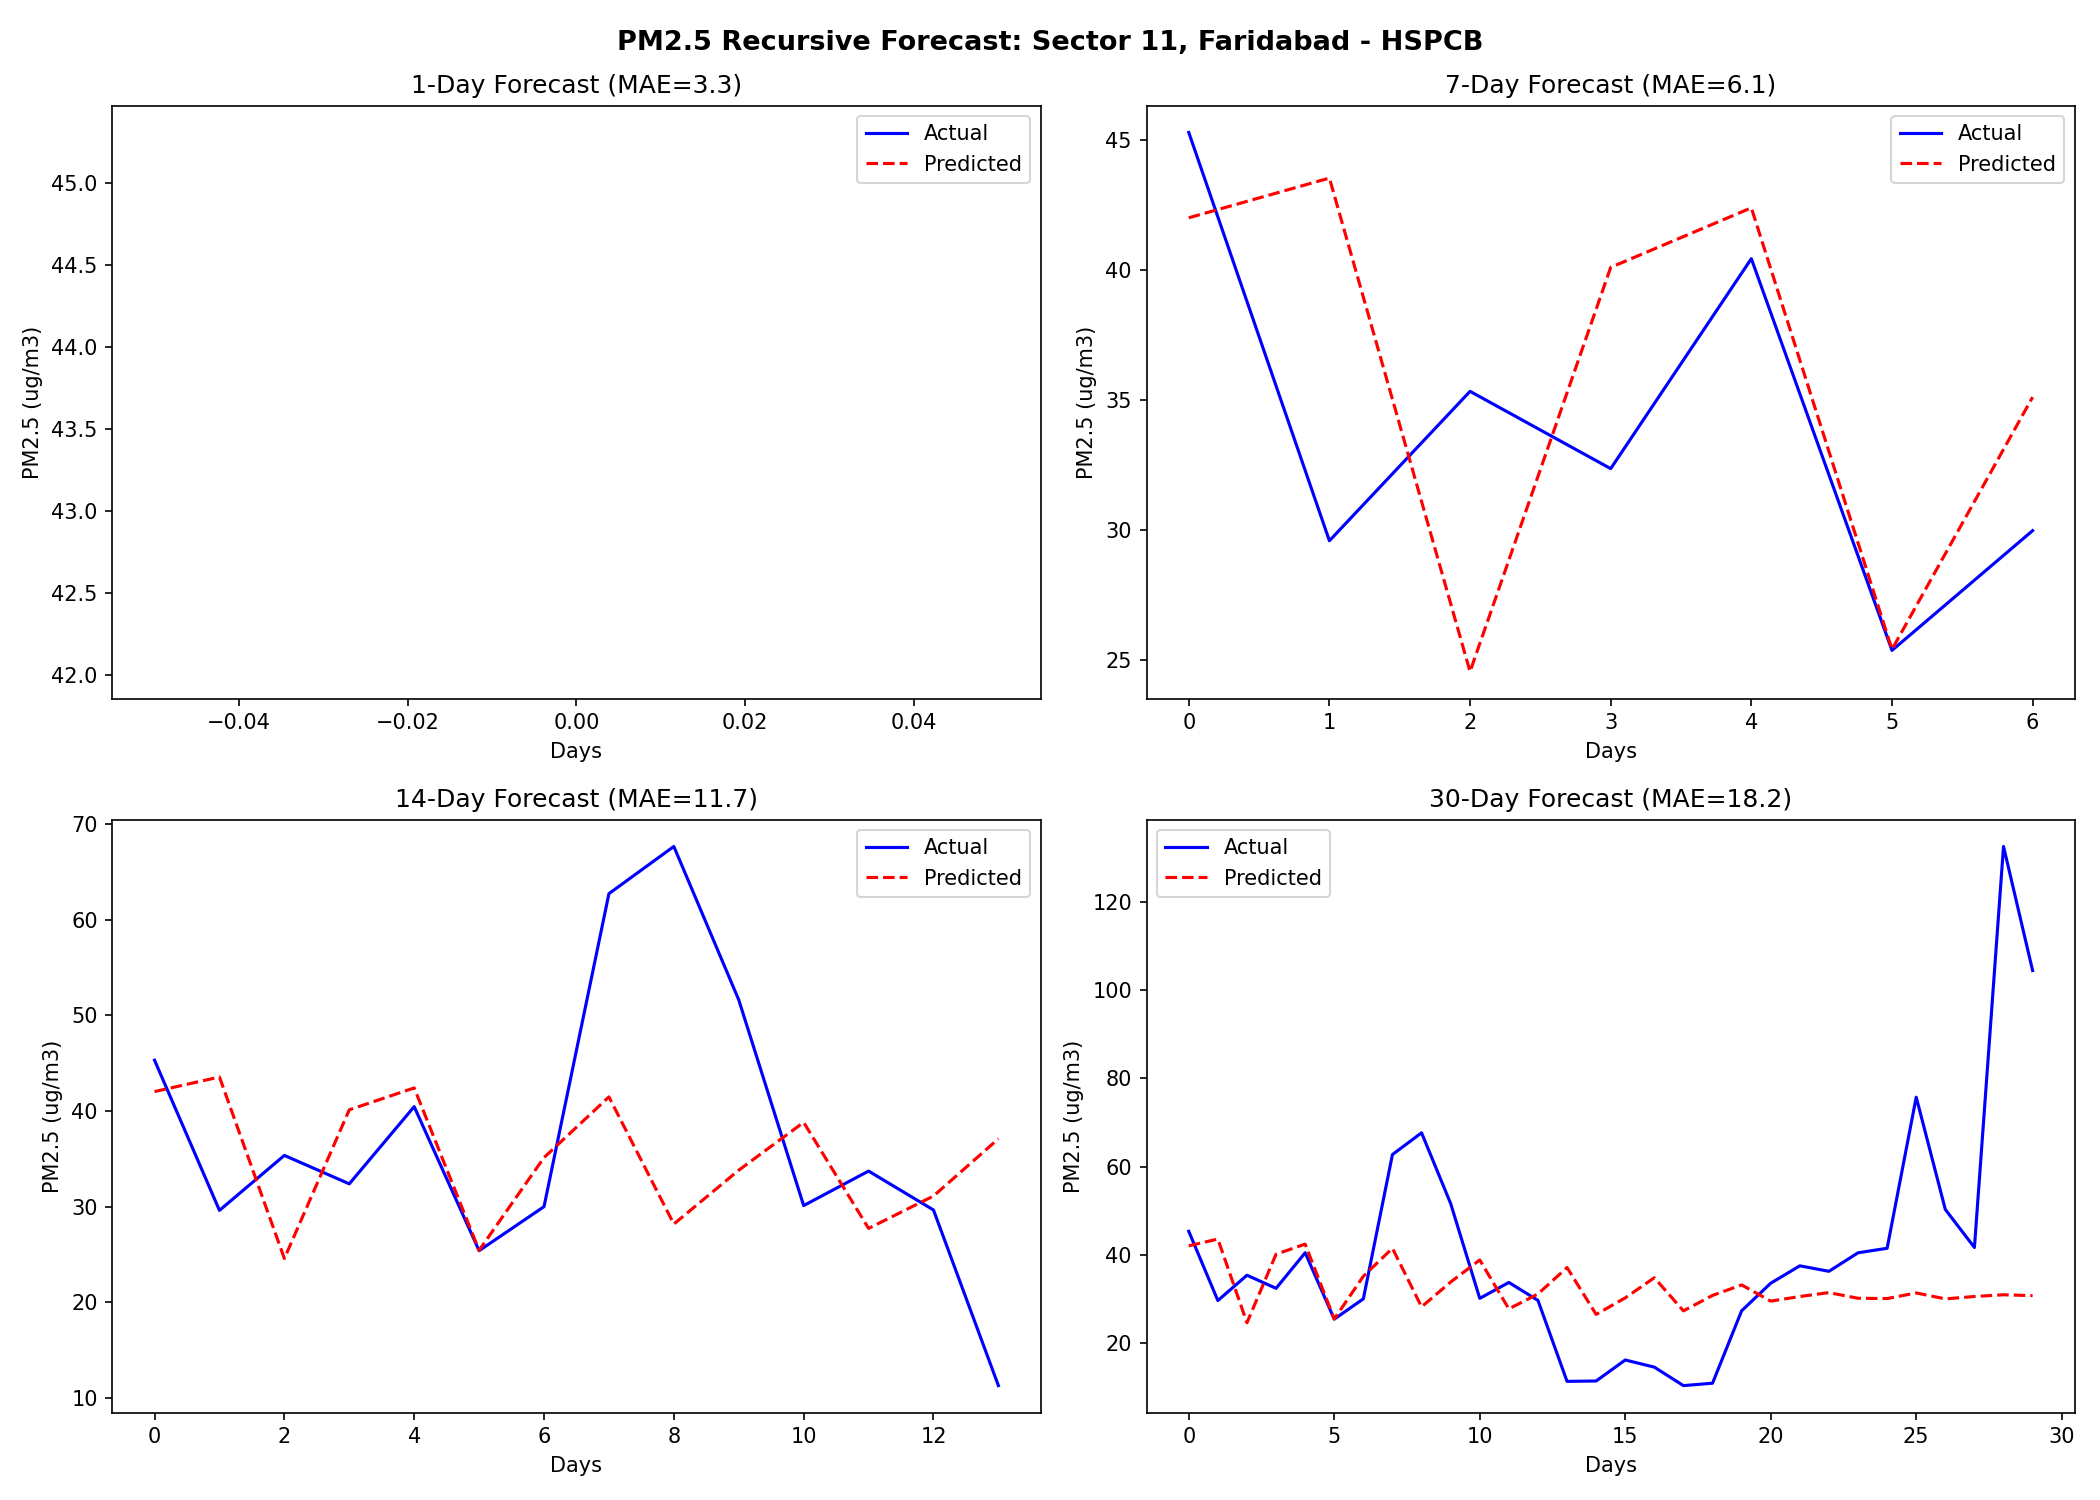
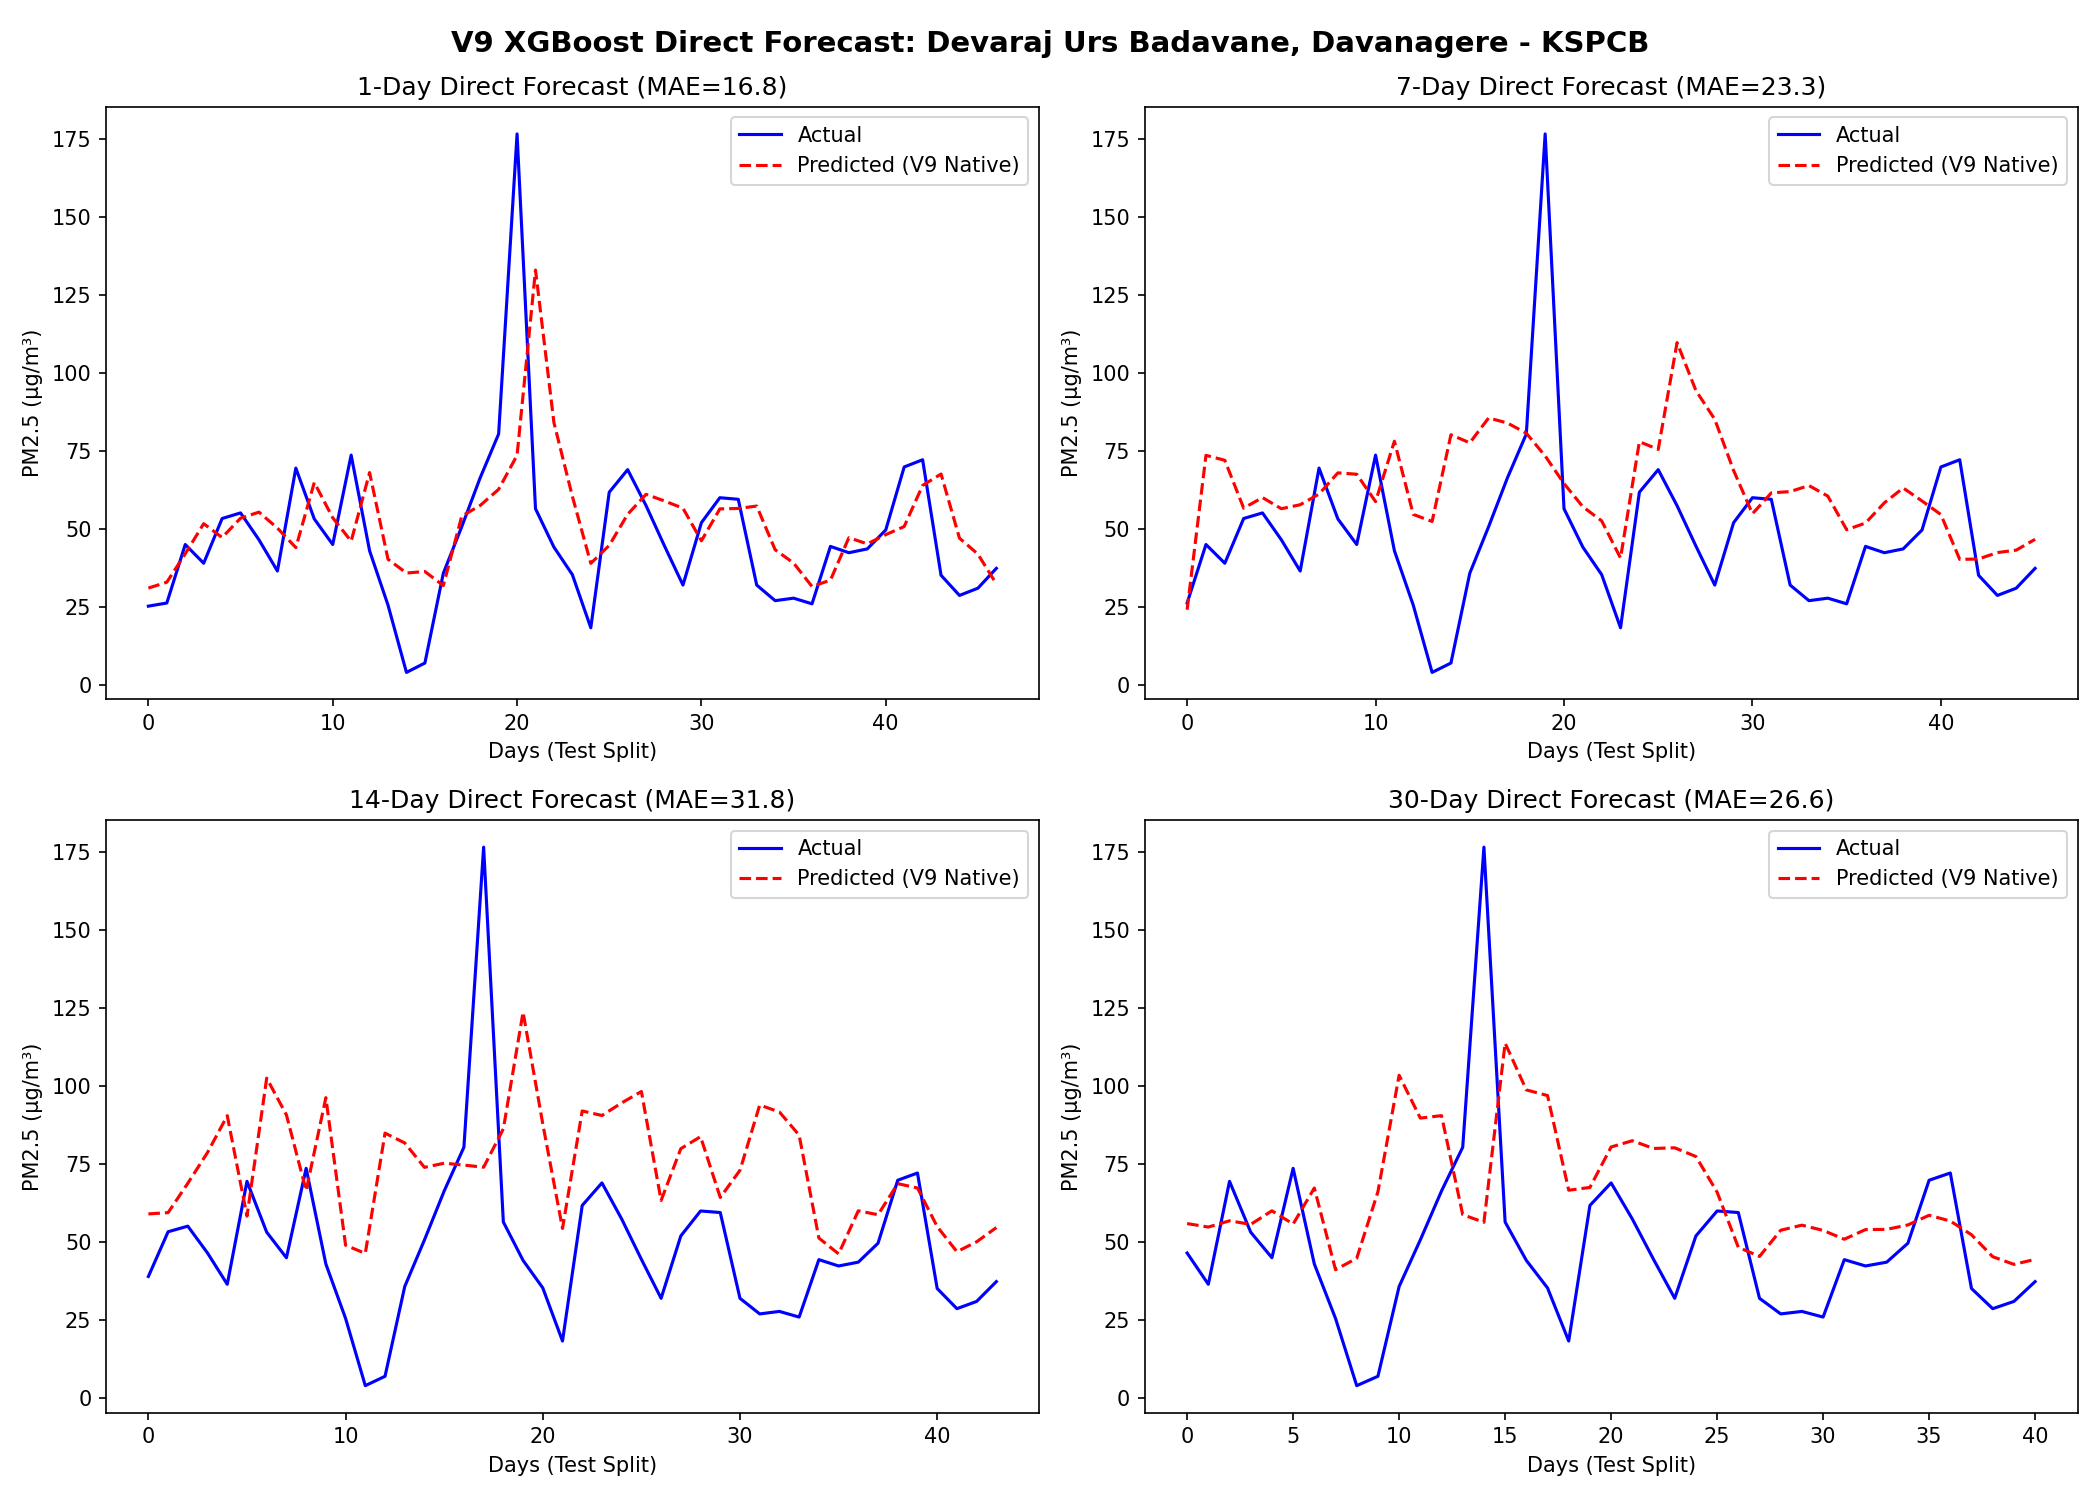
docs(plots): update forecast_horizons.png for v9 native xgboost engine

diff --git a/scripts/plot_v9_forecasts.py b/scripts/plot_v9_forecasts.py
@@ -1,0 +1,110 @@
+import os
+import sys
+import json
+import psycopg2
+import pandas as pd
+import matplotlib
+matplotlib.use('Agg')
+import matplotlib.pyplot as plt
+import xgboost as xgb
+from sklearn.metrics import mean_absolute_error
+
+sys.path.insert(0, os.path.join(os.path.dirname(__file__), ".."))
+from src.config import DB_CONFIG
+from train_v9_xgboost import load_base_data, build_v9_features, temporal_split
+
+MODEL_DIR = os.path.join(os.path.dirname(__file__), "..", "models", "v9")
+HORIZONS = [1, 7, 14, 30]
+
+def plot_best_station():
+    print("Connecting to DB...")
+    conn = psycopg2.connect(**DB_CONFIG)
+    
+    # We will plot for India (IN) since it has high variance and Faridabad is in IN
+    df_in = load_base_data(conn, "IN")
+    
+    # Get station names
+    sql = "SELECT id as station_id, name as station_name FROM stations WHERE country_code = 'IN'"
+    stations_df = pd.read_sql(sql, conn)
+    conn.close()
+    
+    df_in = df_in.merge(stations_df, on="station_id", how="left")
+    
+    # Find the best station
+    counts = df_in.groupby(["station_id", "station_name"]).size().reset_index(name="days")
+    best_station = counts.sort_values("days", ascending=False).iloc[0]
+    best_sid = best_station["station_id"]
+    best_name = best_station["station_name"]
+    print(f"Selected station: {best_name} ({best_sid}) with {best_station['days']} days")
+    
+    fig, axes = plt.subplots(2, 2, figsize=(14, 10))
+    
+    for i, h in enumerate(HORIZONS):
+        print(f"Processing horizon {h}...")
+        df_h, features = build_v9_features(df_in, h)
+        
+        # Filter to best station
+        df_station = df_h[df_h["station_id"] == best_sid].copy()
+        
+        if len(df_station) < 50:
+            print(f"Not enough data for horizon {h}")
+            continue
+            
+        train, test = temporal_split(df_station, "value", test_ratio=0.20)
+        if test.empty:
+            continue
+            
+        # Load V9 XGBoost model and medians
+        model_path = os.path.join(MODEL_DIR, f"IN_pm25_h{h}_xgb.json")
+        meta_path = os.path.join(MODEL_DIR, f"IN_pm25_h{h}_meta.json")
+        
+        if not os.path.exists(model_path):
+            print(f"Model not found: {model_path}")
+            continue
+            
+        with open(meta_path, "r") as f:
+            meta = json.load(f)
+        medians = meta["feature_medians"]
+        
+        X_test = test[features].copy()
+        y_test = test["value"].values
+        
+        for col in features:
+            X_test[col] = X_test[col].fillna(medians.get(col, 0.0))
+            
+        X_test = X_test.replace([float("inf"), float("-inf")], 0)
+        
+        model = xgb.XGBRegressor()
+        model.load_model(model_path)
+        
+        y_pred = model.predict(X_test)
+        y_pred = [max(0, p) for p in y_pred] # PM2.5 can't be negative
+        
+        mae = mean_absolute_error(y_test, y_pred)
+        
+        ax = axes[i // 2, i % 2]
+        
+        # We plot the last 60 days of the test set for better visibility
+        plot_len = min(60, len(y_test))
+        y_test_plot = y_test[-plot_len:]
+        y_pred_plot = y_pred[-plot_len:]
+        
+        ax.plot(range(len(y_test_plot)), y_test_plot, 'b-', label='Actual', linewidth=1.5)
+        ax.plot(range(len(y_pred_plot)), y_pred_plot, 'r--', label='Predicted (V9 Native)', linewidth=1.5)
+        
+        ax.set_title(f'{h}-Day Direct Forecast (MAE={mae:.1f})')
+        ax.set_xlabel('Days (Test Split)')
+        ax.set_ylabel('PM2.5 (µg/m³)')
+        ax.legend()
+
+    plt.suptitle(f'V9 XGBoost Direct Forecast: {best_name}', fontsize=14, fontweight='bold')
+    plt.tight_layout()
+    
+    out_dir = os.path.join(os.path.dirname(__file__), "..", "plots")
+    os.makedirs(out_dir, exist_ok=True)
+    out_path = os.path.join(out_dir, 'forecast_horizons.png')
+    plt.savefig(out_path, dpi=150)
+    print(f"\nPlot saved: {out_path}")
+
+if __name__ == "__main__":
+    plot_best_station()